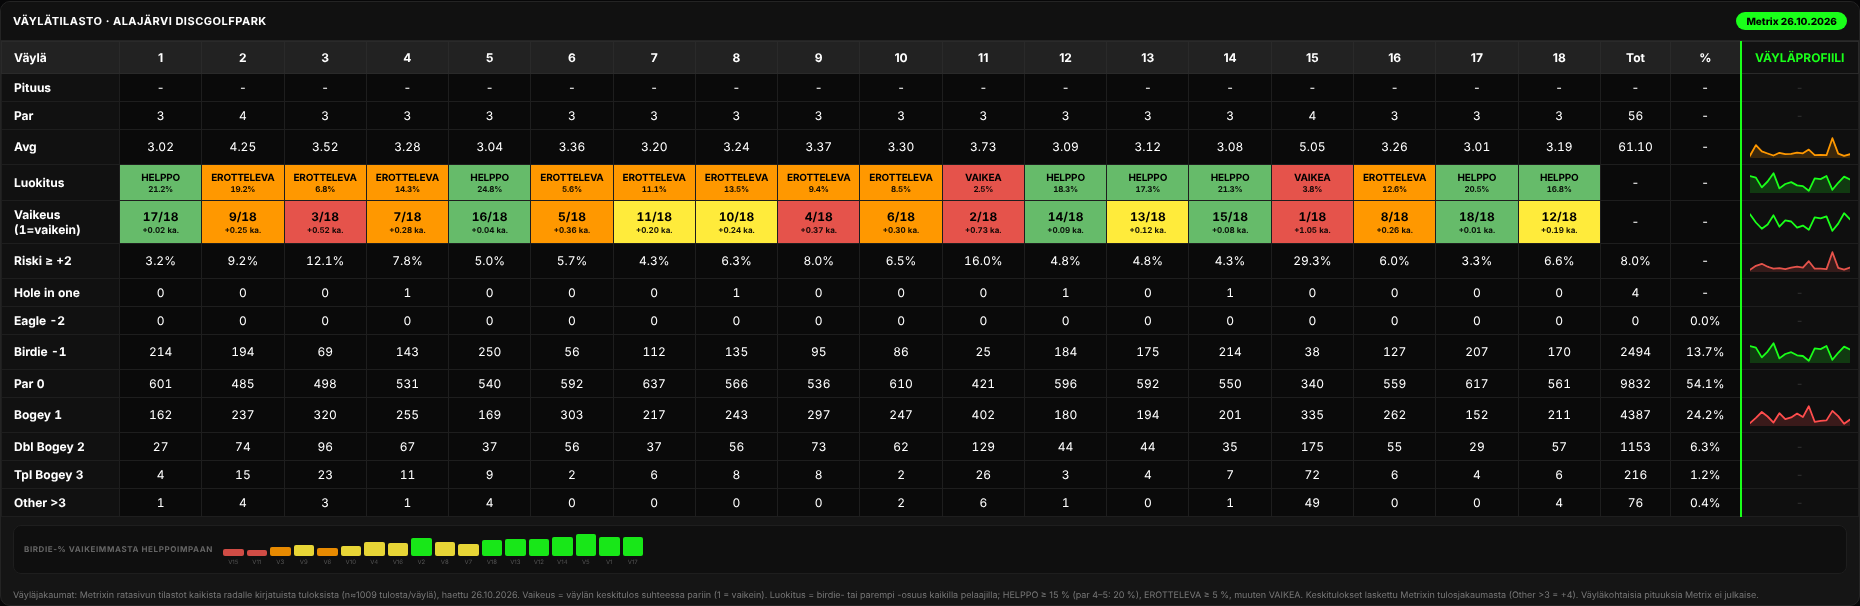
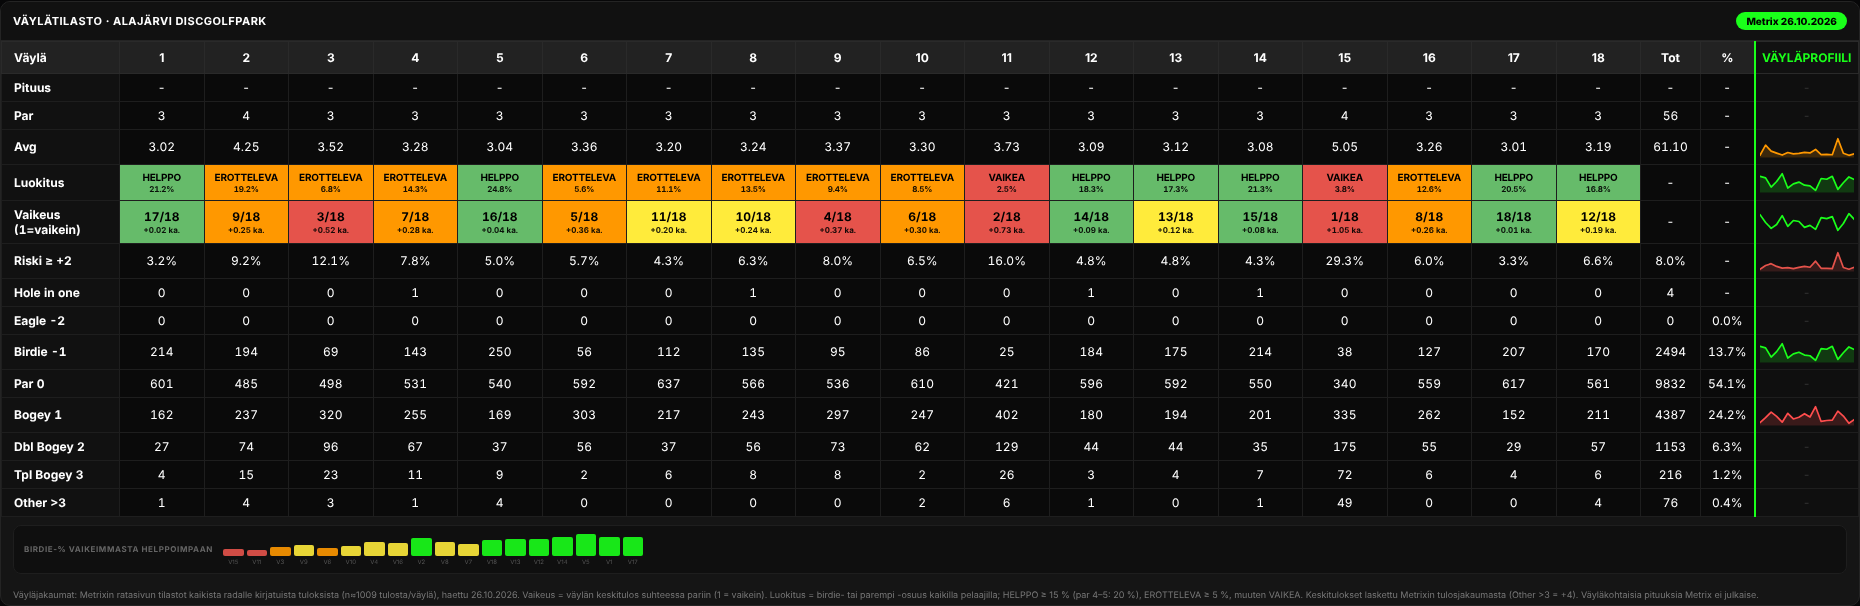
Väylätilasto mahtuu ruudulle myös 19–21 väylän radoilla
Sarakeleveydet lasketaan näytön leveyden mukaan, joten kaikki väylät,
Tot ja Väyläprofiili näkyvät tavallisella läppärinäytöllä. Kapealla
näytöllä taulukon yläpuolella näkyy vieritysvihje.

Claude-Session: https://claude.ai/code/session_01WGMQgbiKYTyGLujT7zSUuJ

diff --git a/index.html b/index.html
@@ -26,7 +26,7 @@ header{min-height:56px;background:#0f0f0f;border-bottom:1px solid #242424;displa
 .vayla-table-wrap{overflow:auto;background:#0a0a0a}
 table.vayla{width:100%;border-collapse:collapse;table-layout:fixed;font-size:12px}
 table.vayla th{background:#222;color:#fff;padding:8px 4px;text-align:center;border:1px solid #2a2a2a;position:sticky;top:0;z-index:3}
-table.vayla th:first-child{width:118px;text-align:left;padding-left:12px;left:0;z-index:4}
+table.vayla th:first-child{width:var(--c0,118px);text-align:left;padding-left:12px;left:0;z-index:4}
 table.vayla td{padding:6px 4px;text-align:center;border:1px solid #1e1e1e;background:#0a0a0a;font-variant-numeric:tabular-nums}
 table.vayla td:first-child{text-align:left;padding-left:12px;background:#111;position:sticky;left:0;z-index:2;font-weight:700}
 .cell-red{background:#e5534b!important;color:#000!important;font-weight:700}.cell-yellow{background:#ffeb3b!important;color:#000!important;font-weight:700}.cell-green{background:#66bb6a!important;color:#000!important;font-weight:700}.cell-orange{background:#ff9800!important;color:#000!important;font-weight:700}.cell-dark{background:#222!important;color:#888!important}
@@ -34,7 +34,14 @@ table.vayla td:first-child{text-align:left;padding-left:12px;background:#111;pos
 .sub{font-size:8px;display:block;line-height:1.1;margin-top:2px;opacity:.9;color:#000;font-weight:700}
 .sparkline{width:100px;height:22px;display:block;margin:0 auto}
 .cell-trendi{background:#0f0f0f!important;border-left:2px solid #1aff1a!important}
-.trendi-header{color:#1aff1a!important;background:#111!important;border-left:2px solid #1aff1a!important;width:118px}
+.trendi-header{color:#1aff1a!important;background:#111!important;border-left:2px solid #1aff1a!important;width:var(--cp,118px)}
+.vayla-table-wrap::-webkit-scrollbar{height:10px}.vayla-table-wrap::-webkit-scrollbar-thumb{background:#1aff1a66;border-radius:5px}.vayla-table-wrap::-webkit-scrollbar-track{background:#111}
+.vayla-table-wrap{scrollbar-color:#1aff1a66 #111}
+.scroll-hint{font-size:10px;color:#1aff1a;padding:4px 12px;background:#111;border-bottom:1px solid #242424}
+table.vayla.narrow td,table.vayla.narrow th{font-size:11px;padding-left:2px;padding-right:2px}
+table.vayla.narrow td:first-child,table.vayla.narrow th:first-child{padding-left:8px}
+table.vayla.narrow .lk{font-size:9px!important;letter-spacing:-.3px}
+.sparkline{max-width:100%}
 .note{font-size:9px;color:#777;padding:5px 12px}
 .corr{margin:8px 12px 10px;background:#0f0f0f;border:1px solid #1e1e1e;border-radius:8px;padding:8px 10px;display:flex;align-items:center;gap:10px;flex-wrap:wrap}
 .corr b{font-size:8px;color:#666;letter-spacing:.6px}
@@ -60,7 +67,7 @@ footer a{color:#888}
   <div class="info" id="info"></div>
   <div class="card-bottom">
     <div class="vayla-header"><h3 id="vayla-title">VÄYLÄTILASTO</h3><div class="live-badge" id="badge">Metrix</div></div>
-    <div class="vayla-table-wrap"><table class="vayla" id="vayla"><thead><tr id="vayla-head"></tr></thead><tbody id="vayla-body"></tbody></table></div>
+    <div class="scroll-hint" id="scroll-hint" hidden>Taulukko jatkuu oikealle, vieritä sivusuunnassa →</div><div class="vayla-table-wrap"><table class="vayla" id="vayla"><thead><tr id="vayla-head"></tr></thead><tbody id="vayla-body"></tbody></table></div>
     <div class="corr" id="corr"></div>
     <div class="note" id="vayla-note"></div>
   </div>
@@ -90,8 +97,17 @@ function renderInfo(v){
 function renderVayla(v){
   const N=v.vayla_count;
   const table=document.getElementById("vayla");
-  table.style.minWidth=(118+N*72+2*70+118)+"px";
-  document.getElementById("vayla-head").innerHTML='<th>Väylä</th>'+Array.from({length:N},(_,i)=>'<th>'+(i+1)+'</th>').join("")+'<th style="width:70px">Tot</th><th style="width:70px">%</th><th class="trendi-header">VÄYLÄPROFIILI</th>';
+  const avail=document.querySelector(".vayla-table-wrap").clientWidth||1200;
+  const c0=avail<900?96:118, cTot=60, cPct=54, cp=avail<900?90:104;
+  const fixed=c0+cTot+cPct+cp;
+  const holeW=Math.max(40,Math.min(80,Math.floor((avail-fixed)/N)));
+  const narrow=holeW<64;
+  table.style.setProperty("--c0",c0+"px"); table.style.setProperty("--cp",cp+"px");
+  table.classList.toggle("narrow",narrow);
+  const total=fixed+holeW*N;
+  table.style.minWidth=total+"px"; table.style.width=total>avail?total+"px":"100%";
+  document.getElementById("scroll-hint").hidden=!(total>avail+2);
+  document.getElementById("vayla-head").innerHTML='<th>Väylä</th>'+Array.from({length:N},(_,i)=>'<th>'+(i+1)+'</th>').join("")+'<th style="width:'+cTot+'px">Tot</th><th style="width:'+cPct+'px">%</th><th class="trendi-header">VÄYLÄPROFIILI</th>';
   const dash=Array(N).fill("-");
   const plays=v.plays_per_hole, pct=(arr)=>arr.slice(0,N).map((c,i)=>c/plays[i]*100);
   const rows=[
@@ -115,9 +131,9 @@ function renderVayla(v){
   rows.forEach((row,ri)=>{
     let html='<td>'+esc(row[0])+'</td>';
     if(row[1]==="LK"){
-      html+=v.luokitus.map(lk=>'<td class="lk '+lk.cls+'" title="Birdie tai parempi '+lk.pct.toFixed(1)+' % kaikista tuloksista">'+lk.label+'<span class="sub">'+lk.pct.toFixed(1)+'%</span></td>').join("")+'<td>-</td><td>-</td>';
+      html+=v.luokitus.map(lk=>'<td class="lk '+lk.cls+'" title="'+lk.label+': birdie tai parempi '+lk.pct.toFixed(1)+' % kaikista tuloksista">'+(holeW<72?({HELPPO:"HELPPO",EROTTELEVA:"EROTT.",VAIKEA:"VAIKEA"}[lk.label]||lk.label):lk.label)+'<span class="sub">'+lk.pct.toFixed(1)+'%</span></td>').join("")+'<td>-</td><td>-</td>';
     }else if(row[1]==="VK"){
-      html+=v.difficulty.slice(0,N).map((d,i)=>{const o=v.over_all[i];return '<td class="'+v.diffCls[i]+'" title="Keskitulos '+v.avg[i]+', par '+v.par[i]+'">'+d+'/'+N+'<span class="sub">'+(o>=0?"+":"")+o.toFixed(2)+' ka.</span></td>';}).join("")+'<td>-</td><td>-</td>';
+      html+=v.difficulty.slice(0,N).map((d,i)=>{const o=v.over_all[i];return '<td class="'+v.diffCls[i]+'" title="Keskitulos '+v.avg[i]+', par '+v.par[i]+'">'+d+'/'+N+'<span class="sub">'+(o>=0?"+":"")+o.toFixed(2)+(narrow?'':' ka.')+'</span></td>';}).join("")+'<td>-</td><td>-</td>';
     }else{
       html+=row.slice(1).map(c=>'<td>'+esc(c)+'</td>').join("");
     }
@@ -145,6 +161,7 @@ function select(id){
 }
 document.getElementById("tabs").addEventListener("click",e=>{const b=e.target.closest(".tab");if(b)select(b.dataset.id)});
 window.addEventListener("hashchange",()=>select(location.hash.slice(1)));
+let rsz;window.addEventListener("resize",()=>{clearTimeout(rsz);rsz=setTimeout(()=>renderVayla(cur),150)});
 if(!select((location.hash||"").slice(1)))select(RADAT[0].slug);
 </script>
 </body></html>
